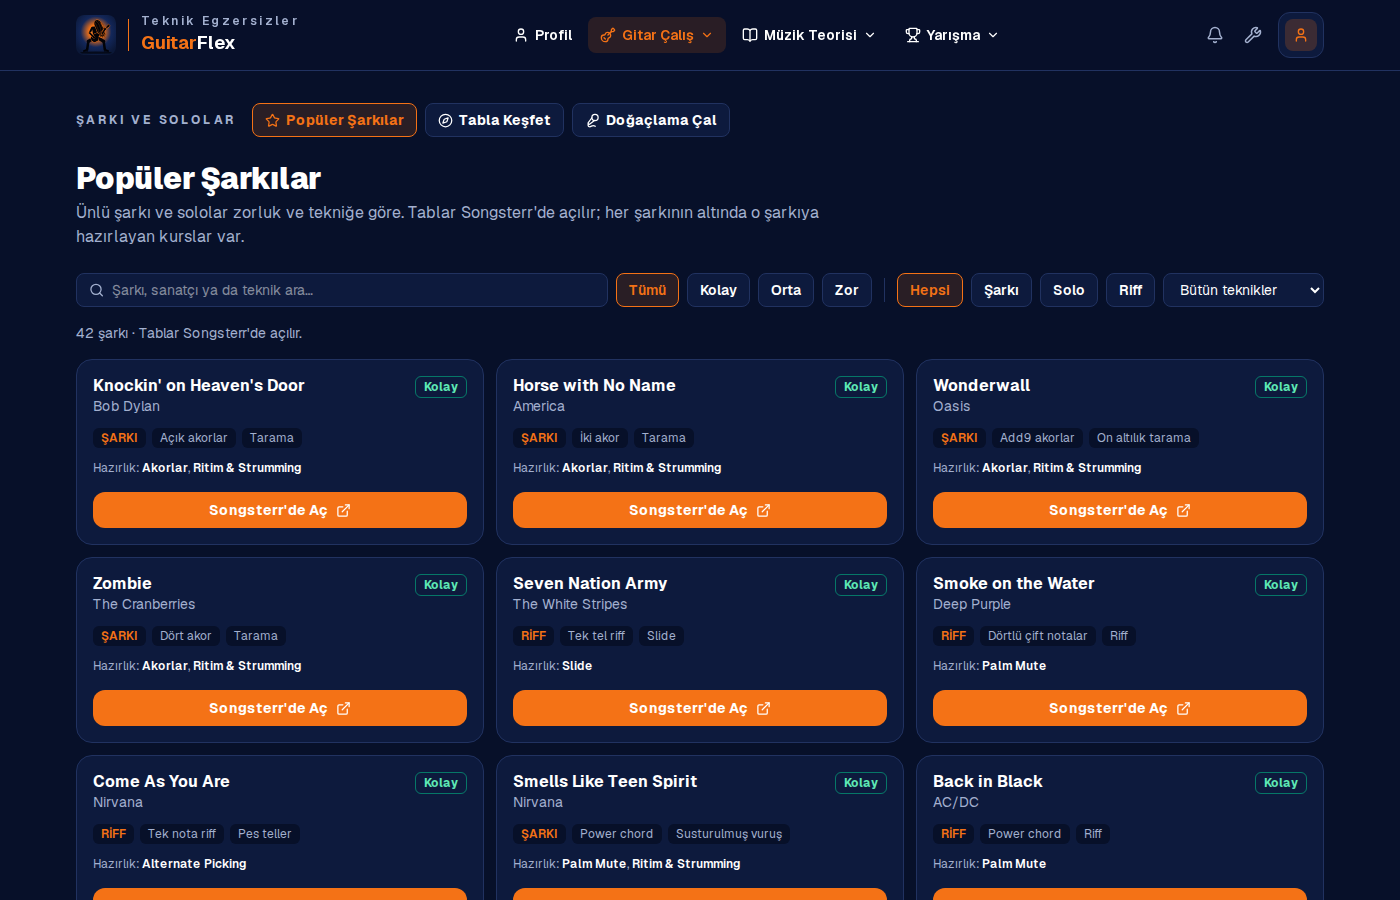
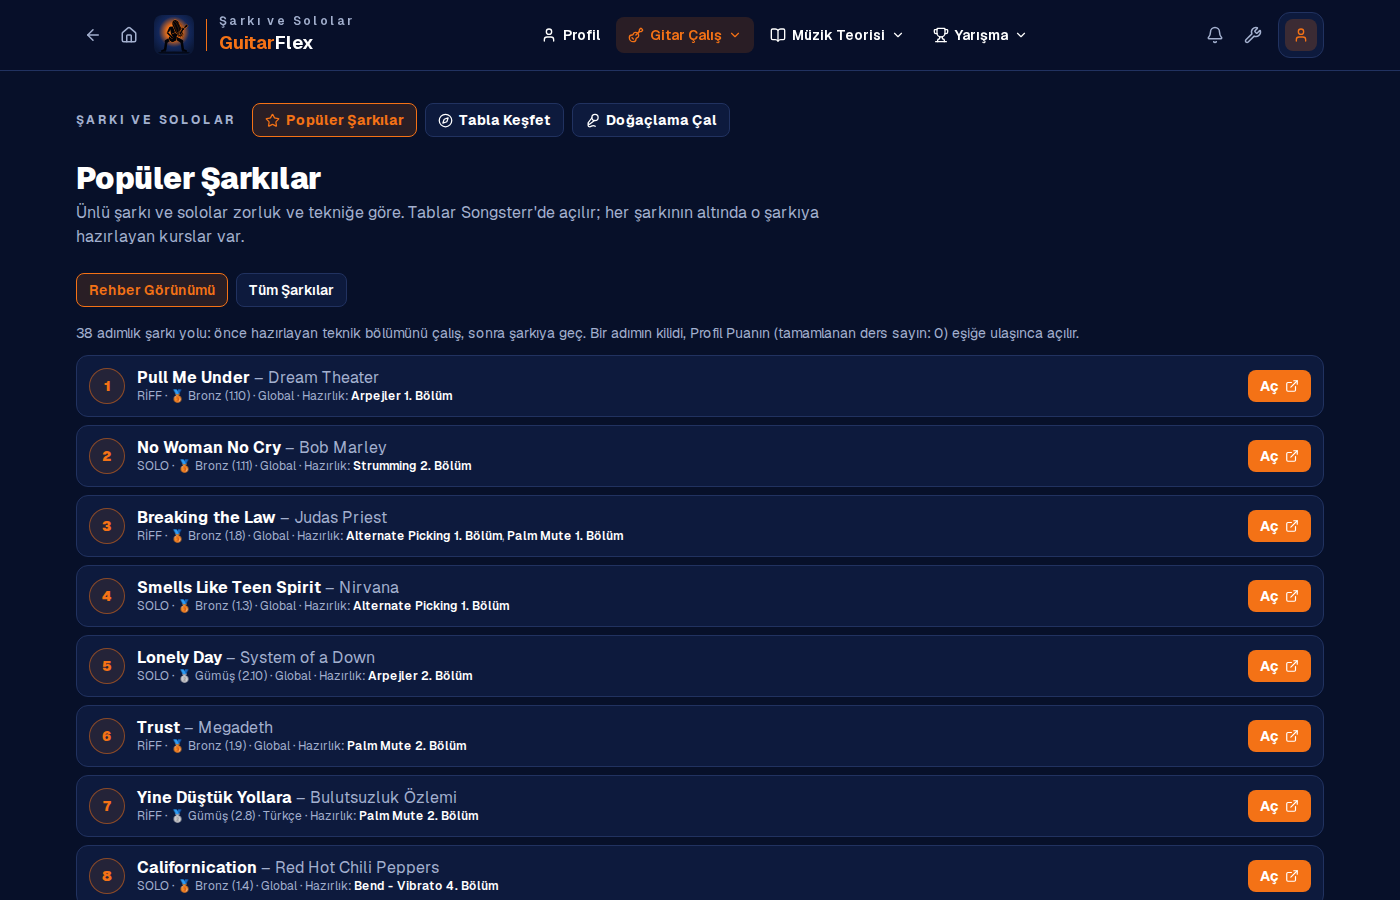
README: teori yolları, Armoni, şarkı rehberi, doğaçlama ve oyun öğeleri; yeni ekran görüntüleri
Ton adlarında tek yazım (La♭ majör, Sol# minör) ve teori sayfasına Armoni kartı.

Claude-Session: https://claude.ai/code/session_01SYZBCciRkgSMWyzkuePkVA

Changed region(s): [[0.0307, 0.28, 0.9521, 1.0], [0.3686, 0.0, 0.7371, 0.0622], [0.0307, 0.0, 0.2457, 0.0622]]

diff --git a/src/lib/alistirma/sorular.ts b/src/lib/alistirma/sorular.ts
@@ -7,7 +7,7 @@ import { akor, dizi, nota, simdi } from "@/lib/ses";
 import { pentaBox } from "@/content/dizi";
 import type { Alistirma } from "./tipler";
 import {
-  ACIK, AKOR_SEKLI, AKOR_TURU, ARALIK_ADI, GAM, MOD_IV, TEL_ADI, dogalMi, karistir, kisaAd, notaAdi, pc, perdeSes, rnd, romen, sec, secenekler,
+  ACIK, AKOR_SEKLI, AKOR_TURU, ARALIK_ADI, GAM, MOD_IV, TEL_ADI, dogalMi, karistir, kisaAd, notaAdi, tonKoku, pc, perdeSes, rnd, romen, sec, secenekler,
 } from "./muzik";
 import { ritimSorusu, type RitimSorusu } from "./ritim";
 import { armoniSorusu } from "./armoni";
@@ -176,15 +176,15 @@ function pentatonikSorusu(sekil: number | null, gorev: "kok" | "kokler"): Soru {
       tip: "secim",
       metin: `Minör pentatonik ${ad} sapta gösteriliyor. Hangi tonda?`,
       sap: { perde, noktalar: kutu.map((p) => ({ s: p.s, f: p.f, tur: "nota" as const })) },
-      secenekler: ops.map((o) => ({ id: String(o), ad: `${notaAdi(o)} minör` })),
+      secenekler: ops.map((o) => ({ id: String(o), ad: `${tonKoku(o, true)} minör` })),
       dogru: String(pc(kok)),
       ses: () => dizi(kutu.map((p) => p.m), undefined, 0.18),
-      aciklama: `Kök notalar: ${kokler.map((p) => `${p.s}. tel ${p.f}. perde`).join(", ")} → ${notaAdi(kok)} minör pentatonik.`,
+      aciklama: `Kök notalar: ${kokler.map((p) => `${p.s}. tel ${p.f}. perde`).join(", ")} → ${tonKoku(kok, true)} minör pentatonik.`,
     };
   }
   return {
     tip: "sap",
-    metin: `${notaAdi(kok)} minör pentatonik, ${ad}. Bütün kök (${kisaAd(kok)}) notalarını seç.`,
+    metin: `${tonKoku(kok, true)} minör pentatonik, ${ad}. Bütün kök (${kisaAd(kok)}) notalarını seç.`,
     sap: { perde, noktalar: kutu.map((p) => ({ s: p.s, f: p.f, tur: "nota" as const })) },
     hedef: kokler.map((p) => anahtar(p.s, p.f)),
     coklu: true,
@@ -213,7 +213,7 @@ function cagedSorusu(formAd: "C" | "A" | "G" | "E" | "D" | null, gorev: "kokler"
   const hi = Math.max(...notalar.map((p) => p.f));
   const perde: [number, number] = [Math.max(0, lo - 2), Math.max(hi + 3, lo + 7)];
   const kokMu = (p: { s: number; f: number }) => pc(perdeSes(p.s, p.f)) === kokPc;
-  const ad = `${notaAdi(kokPc)} majör`;
+  const ad = `${tonKoku(kokPc)} majör`;
   if (gorev === "kokler") {
     return {
       tip: "sap",
@@ -260,7 +260,7 @@ function ucNotaSorusu(modAd: string | null): Soru {
   const hi = Math.max(...notalar.map((p) => p.f));
   return {
     tip: "sap",
-    metin: `${notaAdi(kok)} ${mod} 3 nota/tel kalıbında eksik 3 notayı tamamla.`,
+    metin: `${tonKoku(kok, ["Dorian", "Phrygian", "Aeolian", "Locrian"].includes(mod))} ${mod} 3 nota/tel kalıbında eksik 3 notayı tamamla.`,
     sap: {
       perde: [Math.max(0, lo - 1), hi + 1],
       noktalar: notalar.filter((p) => !gizliMi(p)).map((p) => ({ s: p.s, f: p.f, tur: kokMu(p) ? ("kok" as const) : ("nota" as const), etiket: kokMu(p) ? "K" : undefined })),
@@ -290,12 +290,12 @@ function dereceSorusu(): Soru {
   const ops = secenekler(hedef.d, [1, 2, 3, 4, 5, 6]);
   return {
     tip: "secim",
-    metin: `K, ${notaAdi(kok)} majör gamının kökü. İşaretli nota gamın kaçıncı derecesi?`,
+    metin: `K, ${tonKoku(kok)} majör gamının kökü. İşaretli nota gamın kaçıncı derecesi?`,
     sap: { perde: [Math.max(0, f - 3), f + 6], noktalar: [{ s, f, tur: "kok", etiket: "K" }, { s: hedef.s, f: hedef.f, tur: "soru", etiket: "?" }] },
     secenekler: ops.map((o) => ({ id: String(o), ad: `${DERECE_AD[o]}. derece` })),
     dogru: String(hedef.d),
     ses: () => dizi([kok, perdeSes(hedef.s, hedef.f)]),
-    aciklama: `${notaAdi(perdeSes(hedef.s, hedef.f))}, ${notaAdi(kok)} majörün ${hedef.d + 1}. derecesi.`,
+    aciklama: `${notaAdi(perdeSes(hedef.s, hedef.f))}, ${tonKoku(kok)} majörün ${hedef.d + 1}. derecesi.`,
   };
 }
 

diff --git a/src/app/teori/page.tsx b/src/app/teori/page.tsx
@@ -18,7 +18,7 @@ export default async function TheoryPage() {
 
       <section id="yollar" className="scroll-mt-24 space-y-3">
         <h2 className="text-xl font-semibold">Pratik Yolları</h2>
-        <div className="grid gap-3 sm:grid-cols-3">
+        <div className="grid gap-3 sm:grid-cols-2 lg:grid-cols-4">
           {yollar.map((y) => (
             <Link key={y.slug} href={`/teori/yol/${y.slug}`} className="rounded-xl border border-line bg-panel p-4 transition hover:border-accent">
               <p className="text-xs font-semibold uppercase tracking-wide text-accent">{y.etiket}</p>
@@ -26,6 +26,11 @@ export default async function TheoryPage() {
               <p className="text-sm text-muted">{y.yol ? `${y.yol.bolumler.length} bölüm · ${y.yol.adimlar.length} adım` : "İçerik paketi gerekli"}</p>
             </Link>
           ))}
+          <Link href="/calis/armoni" className="rounded-xl border border-line bg-panel p-4 transition hover:border-accent">
+            <p className="text-xs font-semibold uppercase tracking-wide text-accent">Müzik Teorisi Dersleri</p>
+            <h3 className="font-semibold">Armoni</h3>
+            <p className="text-sm text-muted">Eğitim, pratik ve ek inceleme kartları</p>
+          </Link>
         </div>
       </section>
 

diff --git a/src/lib/alistirma/muzik.ts b/src/lib/alistirma/muzik.ts
@@ -21,6 +21,12 @@ export function notaAdi(p: number, yazim?: "diyez" | "bemol"): string {
 }
 export const kisaAd = (p: number) => TR_D[pc(p)];
 
+// Ton adlarında yaygın yazım: majörde La♭, Mi♭, Si♭, Re♭; minörde Do#, Sol#, Mi♭, Si♭
+const MAJOR_TON = [0, 1, 2, 3, 4, 5, 6, 7, 8, 9, 10, 11].map((i) => ([1, 3, 8, 10].includes(i) ? "bemol" : "diyez") as "diyez" | "bemol");
+const MINOR_TON = [0, 1, 2, 3, 4, 5, 6, 7, 8, 9, 10, 11].map((i) => ([3, 10].includes(i) ? "bemol" : "diyez") as "diyez" | "bemol");
+/** Tonun kök adı: "La♭ (A♭)" gibi tek yazım */
+export const tonKoku = (p: number, minor = false) => notaAdi(p, (minor ? MINOR_TON : MAJOR_TON)[pc(p)]);
+
 export const TEL_ADI: Record<number, string> = { 1: "1. tel · ince Mi (E)", 2: "2. tel · Si (B)", 3: "3. tel · Sol (G)", 4: "4. tel · Re (D)", 5: "5. tel · La (A)", 6: "6. tel · kalın Mi (E)" };
 
 export const ARALIK_ADI: Record<number, string> = {

diff --git a/README.md b/README.md
@@ -13,6 +13,12 @@ behind every exercise, and adds a songs & solos library, backing tracks for impr
 | ![Popüler Şarkılar](docs/ekran/sarkilar.png) | ![Doğaçlama Çal](docs/ekran/dogaclama.png) |
 | **Tab oynatıcı** | **Müzik teorisi** |
 | ![Tab oynatıcı](docs/ekran/oynatici.png) | ![Teori](docs/ekran/teori.png) |
+| **Klavye Görselleştirme yolu** | **Sapta soru (CAGED)** |
+| ![Klavye yolu](docs/ekran/klavye-yolu.png) | ![Klavye adımı](docs/ekran/klavye-adim.png) |
+| **Ritim: dinle, seç, vur** | **Armoni dersleri** |
+| ![Ritim adımı](docs/ekran/ritim-adim.png) | ![Armoni](docs/ekran/armoni.png) |
+| **Profil: görevler, seri, başarımlar** | |
+| ![Profil](docs/ekran/profil.png) | |
 
 ## Highlights
 
@@ -20,9 +26,11 @@ behind every exercise, and adds a songs & solos library, backing tracks for impr
 - **Music theory on every lesson** — scale formulas, intervals, chord construction, progressions and rhythm explained next to the tab
 - **Generated, verified tabs** — scale fingerings, arpeggio shapes, sequences, legato slurs and pick-stroke directions (alternate, sweep, economy) are computed from pitch data; an automated checker validates every bar's length and every hammer-on, pull-off and slide
 - **Multi-track tab player** — Guitar Pro / MusicXML / alphaTex playback with per-track mute, solo and volume, speed control, metronome, count-in, click-to-seek and drag-to-loop
-- **Songs & solos** — a curated library of famous songs and solos filtered by difficulty and technique, linked to Songsterr and to the courses that prepare for them
-- **Improvisation** — backing tracks (drums, bass, rhythm guitar) in seven styles, each with suggested scales shown on an interactive fretboard
-- **Practice tracking** — automatic practice timer per lesson, streaks, ranks, badges and course progress
+- **Theory practice paths** — Rhythm (70 steps), Fretboard Visualization (84) and Ear Training (60): questions are generated fresh on every attempt — notes, octaves, pentatonic, CAGED and 3NPS shapes on a clickable fretboard, chord diagrams, interval/chord/scale/progression recognition with synthesized guitar sound, and rhythm reading with tap-back scoring rendered in SMuFL notation
+- **Harmony course** — 5 sections, 10 chapters with reading cards, generated practice quizzes (correctly spelled scales, triads, modes, diatonic and seventh chords) and playable example tabs
+- **Songs & solos** — a song guide (38 ordered steps tied to course sections) and a library of 99 songs with medal levels, origin/type filters and sorting, linked to Songsterr
+- **Improvisation** — 56 backing tracks (drums, bass, rhythm guitar) in six genres, chords spelled from scale degrees, each with compatible scales on an interactive fretboard
+- **Game layer** — daily tasks, task-based streaks with streak shields, per-lesson medal tiers, 68 achievements with rarity and XP
 - **Desktop app with one-click updates** — the launcher pulls new versions, rebuilds when needed and opens the app
 - **Brand identity** — name, navy/orange palette and guitarist-silhouette logo drawn programmatically as SVG
 
@@ -41,14 +49,20 @@ Masaüstü uygulaması ve web sitesi aynı koddan çalışır.
 - **Müzik Bilgisi**: Her derste gam, aralık, akor ve ritim açıklaması; tab ile aynı veriden üretildiği için nota adları her zaman tabla uyuşur.
 - **Başlangıç rehberleri**: Sıfırdan başlayanlar ve başlangıç–orta seviye için kurslardan seçilmiş çalışma yolları; tablı derslerin arasında okuma adımları.
 - **Elektro ve akustik**: Teknik kursları ve şarkılar elektro ve akustik gitar için ayrı sayfalarda; seviyeye göre çalışma yolu seçici.
-- **Şarkı ve Sololar**: Popüler Şarkılar (zorluk ve tekniğe göre, Songsterr bağlantılı), Tabla Keşfet (çok kanallı tab oynatıcı) ve Doğaçlama Çal (7 eşlik kaydı ve önerilen gamlar).
+- **Şarkı ve Sololar**: Şarkı Rehberi (teknik bölümlerine bağlı 38 adım), Tüm Şarkılar (madalya seviyesi, köken, tür, arama ve sıralama), Tabla Keşfet (çok kanallı tab oynatıcı) ve Doğaçlama Çal (6 türde 56 eşlik kaydı ve önerilen gamlar).
 - **Tab oynatıcı**: Guitar Pro, MusicXML ve alphaTex; enstrüman bazında ses/mute/solo, hız, metronom, sayım, döngü, nota görünümü.
-- **Müzik teorisi**: 10 ders ve interaktif sap gezgini (gamlar, akorlar, aralıklar, Do-Re-Mi).
-- **Profil**: Otomatik çalışma süresi, seri, rütbe, rozetler ve kurs ilerlemesi.
+- **Müzik teorisi**: Ritim (70 adım), Klavye Görselleştirme (84 adım) ve Kulak Eğitimi (60 adım) pratik yolları; sorular her denemede yeniden üretilir. Armoni (Müzik Teorisi Dersleri): 5 bölüm, Eğitim / Pratik / Ek İnceleme kartları. Ayrıca 10 ders ve interaktif sap gezgini.
+- **Profil**: Günlük görevler (Egzersiz, Teori, Serbest Çalışma), seri ve seri kalkanı, ders madalyaları (Bronz I → Elmas IV), 68 başarım ve XP, kurs ilerlemesi.
 - **Araçlar**: Metronom ve nota bulma testi.
 
 ### Son güncellemeler
 
+- **Teori yolları**: Ritim (dinle, yazımı seç, geri vur), Klavye Görselleştirme (sapta tel, nota, oktav, pentatonik, CAGED, 3NPS) ve Kulak Eğitimi (aralık, akor türü, gam, akor yürüyüşü); adımlar sırayla açılır, sonuçlar kaydedilir
+- **Armoni**: 5 bölüm, 10 alt bölüm; Eğitim metinleri, her denemede yeni sorularla Pratik kartları (notalar harf adına göre doğru yazılır) ve çalınacak Ek İnceleme tabları
+- **Şarkı Rehberi** (38 adım) ve **Tüm Şarkılar** filtreleri: Bronz–Usta seviyeleri, Global/Türkçe, Riff/Solo, arama ve sıralama
+- **Doğaçlama Çal**: Rock, Blues, Metal, Pop, Funk ve Groove türlerinde 56 eşlik; akorlar tonun derecelerinden yazılır, akor şekilleri ve gamlar otomatik denetlenir
+- **Profil**: günlük görevler, seri ve seri kalkanı, ders madalya kademeleri ve 68 başarım
+- Kurs ve rehber derslerinde envanterle eşleşen adlar, bölüm sınavı satırları, ders hedefleri ve süreleri; tabların müzik ve gitar teorisi denetimi genişletildi
 - Çalmadan önceki **sayım** ekranda geri sayan rakamla görünüyor; **İptal**, **Hemen başla** ve **Sayımı kapat** düğmeleri var (Esc de iptal eder), sayım tercihi hatırlanıyor
 - Üst menü sadeleşti: **Gitar Çalış** altında Akustik (Teknik Egzersizler, Şarkılar) ve Elektro (Teknik Egzersizler, Şarkı ve Sololar) başlıkları; egzersizler bu sayfalarda
 - **Geri** ve **Ana sayfa** tuşları; logonun yanındaki başlık bulunulan bölümü gösterir
